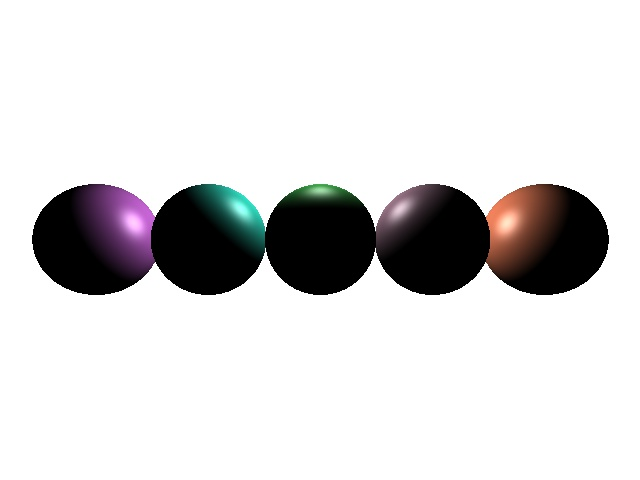
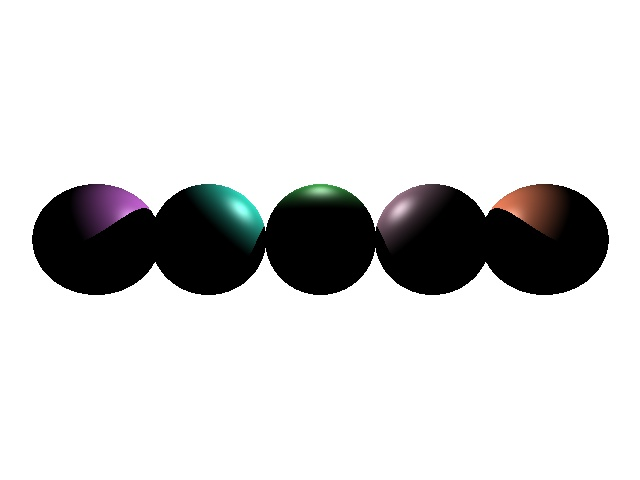
Shadows work for spheres

diff --git a/hw3-starterCode/hw3-starterCode/Sphere.h b/hw3-starterCode/hw3-starterCode/Sphere.h
@@ -2,6 +2,7 @@
 #include "Defines.h"
 #include <math.h>
 #include "Vector3.h"
+#include "Light.h"
 
 struct Sphere
 {
@@ -18,12 +19,13 @@ struct SphereIntersector
 	Sphere* TestIntersectionArray(const Vector3& ray, const Vector3& origin, Sphere* sphereArray, unsigned count, Vector3& outIntersectionPoint);
 	
 	// Returns the saturated phong values.
-	Vector3 SphereIntersector::CalculateLighting(const Vector3& origin, const Sphere& sphere, const Vector3& P/*intersection*/, Light* lights, unsigned count);
+	Vector3 CalculateLighting(const Vector3& origin, const Sphere& sphere,
+		const Vector3& P/*intersection*/, Light* lights, unsigned count, Sphere* spheres, int num_spheres,
+		Triangle* triangles, int num_triangles);
 
 private:
 	// Returns true if successfully intersects.
 	bool TestIntersection(const Vector3& ray, const Vector3& origin, Sphere& sphere, Vector3& outIntersectionPoint) const;
-
 };
 
 Sphere* SphereIntersector::TestIntersectionArray(const Vector3& ray, const Vector3& origin, Sphere* sphereArray, unsigned count, Vector3& outIntersectionPoint)
@@ -72,8 +74,27 @@ bool SphereIntersector::TestIntersection(const Vector3& ray, const Vector3& orig
 	return true;
 }
 
+bool isShadowedPixel(const Vector3& lightPosition, const Vector3& intersection, Sphere* spheres, unsigned num_spheres)
+{
+	Vector3 ray = lightPosition.Subtract(intersection);
+	Vector3::Normalize(ray);
+	Vector3 outIntersectionPoint;
+
+	// TODO: Triangle check.
+
+	SphereIntersector sphereIntersector;
+	Sphere* sphIntersect = sphereIntersector.TestIntersectionArray(ray, intersection, spheres, num_spheres, outIntersectionPoint);
+	if (sphIntersect != NULL)
+	{
+		// Light should not contribute to pixel.
+		return true;
+	}
+	return false;
+}
+
 Vector3 SphereIntersector::CalculateLighting(const Vector3& origin, const Sphere& sphere, 
-	const Vector3& P/*intersection*/, Light* lights, unsigned count)
+	const Vector3& P/*intersection*/, Light* lights, unsigned count, Sphere* spheres, int num_spheres,
+	Triangle* triangles, int num_triangles)
 {
 	Vector3 spherePos(sphere.position[0], sphere.position[1], sphere.position[2]);
 
@@ -98,7 +119,7 @@ Vector3 SphereIntersector::CalculateLighting(const Vector3& origin, const Sphere
 		Vector3 V = origin.Subtract(P); 
 		Vector3::Normalize(V);
 
-		//if (!isShadowedPixel(x, y, lightPosition, P))
+		if (!isShadowedPixel(lightPosition, P, spheres, num_spheres))
 		{
 			double NdotL = N.Dot(L);
 			phong = phong.Add(sphereColor.Multiply(Saturate(NdotL)));

diff --git a/hw3-starterCode/hw3-starterCode/hw3.cpp b/hw3-starterCode/hw3-starterCode/hw3.cpp
@@ -114,8 +114,9 @@ bool intersectScene(int x, int y, const Vector3& ray)
 	if (sphIntersect != NULL)
 	{
 		// A sphere gets intersected.
-		Vector3 phong = sphereIntersector.CalculateLighting(cameraPos, *sphIntersect, outIntersectionPoint, lights, num_lights);
-		plot_pixel(x, y, phong.x * MAX_COLOR, phong.y * MAX_COLOR, phong.z * MAX_COLOR);
+		Vector3 phong = sphereIntersector.CalculateLighting(cameraPos, *sphIntersect, outIntersectionPoint, lights, num_lights,
+			spheres, num_spheres, triangles, num_triangles);
+		plot_pixel(x, y, (char)(phong.x * MAX_COLOR), (char)(phong.y * MAX_COLOR), (char)(phong.z * MAX_COLOR));
 		return true;
 	}
 	return false;
